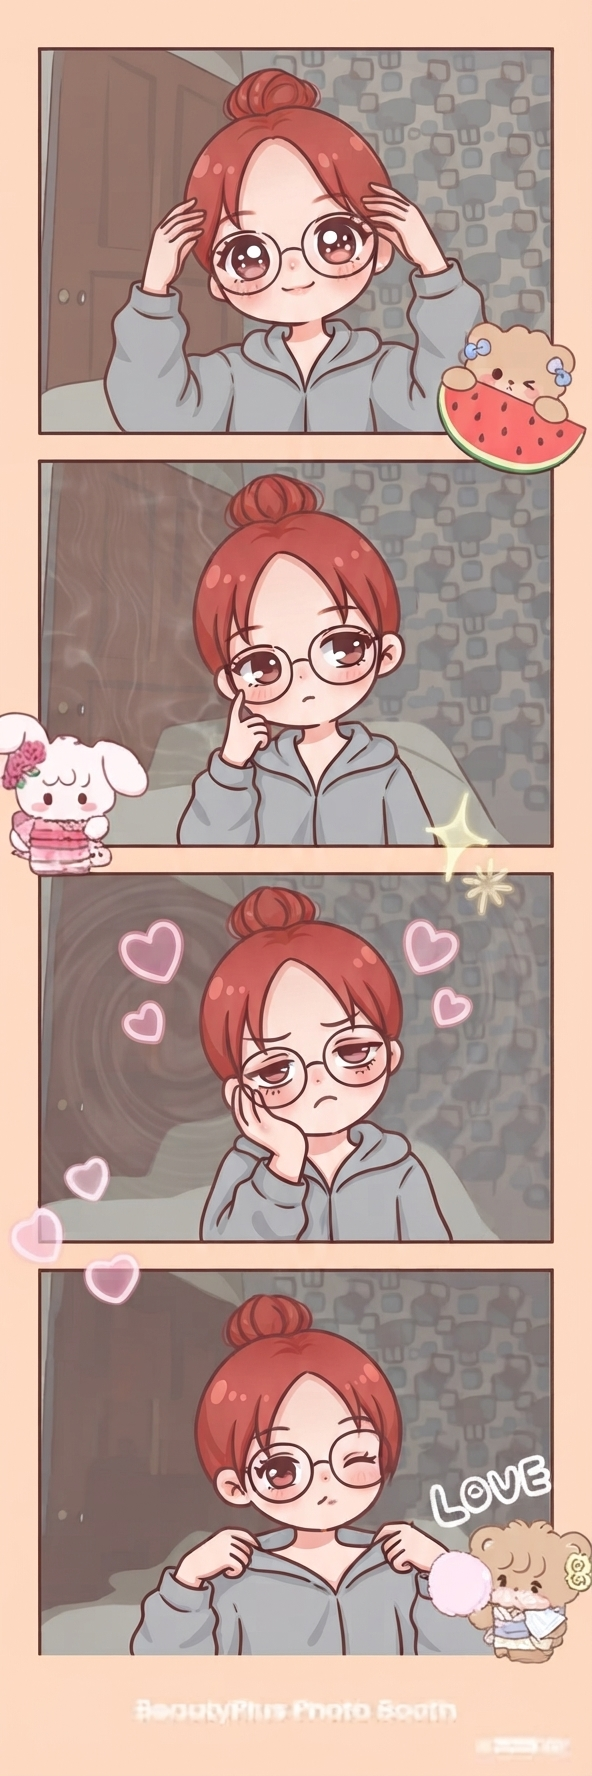
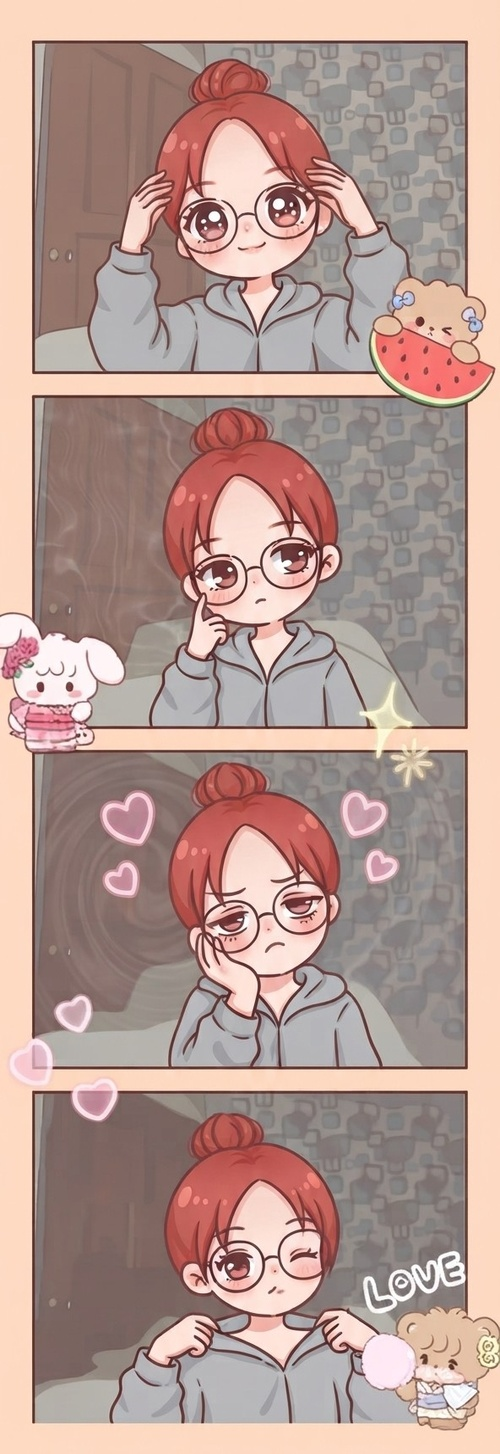
Fixed final alignment of img strips, with a slight margin top on irl-picture

diff --git a/css/personal/my-corner-blog/styles.css b/css/personal/my-corner-blog/styles.css
@@ -52,3 +52,27 @@ body {
     width: 100%; /* the width follows .strip {} */
     height: auto; /* safeguard, not particularly need to write although it already automatically follows the width */ 
 }
+
+.strip-frame {
+    background: var(--white);
+    padding: 0.6rem; /* border space from the white bg and img */
+    border-radius: 0.6rem; /* rounds corners */
+    box-shadow: 0 0.5rem 1.25rem rgba(155, 34, 38, 0.18);
+    /* offset-x, y, blur, and color */
+}
+
+.strip-irl {
+    transform: rotate(-3deg); 
+}
+
+.strip-chibi {
+    margin-top: 1.5rem; /* moves the frame strip slightly higher */
+    transform: rotate(2.5deg);
+}
+
+figcaption {
+    margin-top: 0.75rem;
+    color: var(--red);
+    font-family: var(--font-display);
+    font-size: 1.1rem;
+}
